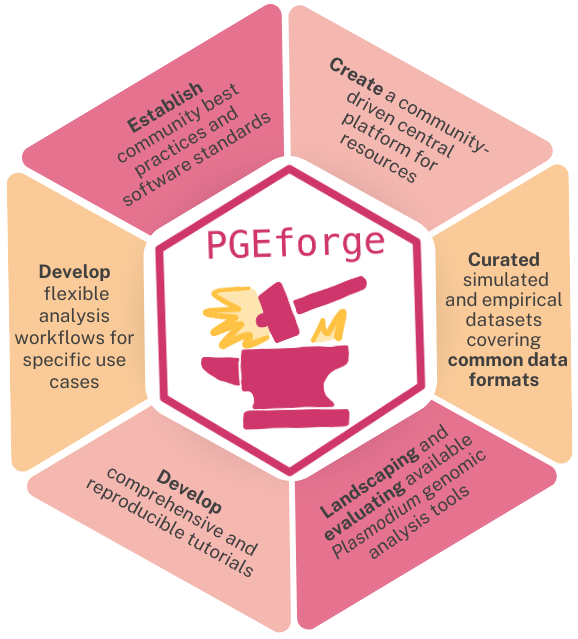
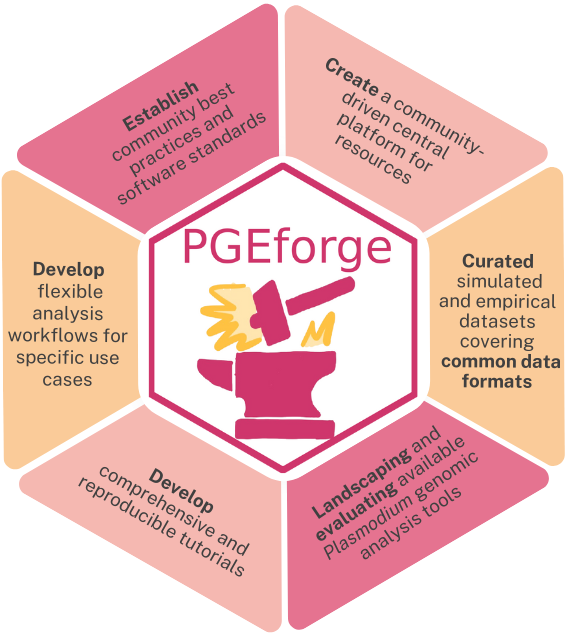
fix hex, fix/add refs, add use cases/workflows

diff --git a/_freeze/site_libs/dt-ext-scroller-1.13.6/js/dataTables.scroller.min.js b/_freeze/site_libs/dt-ext-scroller-1.13.6/js/dataTables.scroller.min.js
@@ -1,0 +1,4 @@
+/*! Scroller 2.2.0
+ * © SpryMedia Ltd - datatables.net/license
+ */
+!function(o){var e,l;"function"==typeof define&&define.amd?define(["jquery","datatables.net"],function(s){return o(s,window,document)}):"object"==typeof exports?(e=require("jquery"),l=function(s,t){t.fn.dataTable||require("datatables.net")(s,t)},"undefined"==typeof window?module.exports=function(s,t){return s=s||window,t=t||e(s),l(s,t),o(t,s,s.document)}:(l(window,e),module.exports=o(e,window,window.document))):o(jQuery,window,document)}(function(f,i,o,a){"use strict";function l(s,t){this instanceof l?(t===a&&(t={}),s=f.fn.dataTable.Api(s),this.s={dt:s.settings()[0],dtApi:s,tableTop:0,tableBottom:0,redrawTop:0,redrawBottom:0,autoHeight:!0,viewportRows:0,stateTO:null,stateSaveThrottle:function(){},drawTO:null,heights:{jump:null,page:null,virtual:null,scroll:null,row:null,viewport:null,labelHeight:0,xbar:0},topRowFloat:0,scrollDrawDiff:null,loaderVisible:!1,forceReposition:!1,baseRowTop:0,baseScrollTop:0,mousedown:!1,lastScrollTop:0},this.s=f.extend(this.s,l.oDefaults,t),this.s.heights.row=this.s.rowHeight,this.dom={force:o.createElement("div"),label:f('<div class="dts_label">0</div>'),scroller:null,table:null,loader:null},this.s.dt.oScroller||(this.s.dt.oScroller=this).construct()):alert("Scroller warning: Scroller must be initialised with the 'new' keyword.")}var r=f.fn.dataTable,s=(f.extend(l.prototype,{measure:function(s){this.s.autoHeight&&this._calcRowHeight();var t=this.s.heights,o=(t.row&&(t.viewport=this._parseHeight(f(this.dom.scroller).css("max-height")),this.s.viewportRows=parseInt(t.viewport/t.row,10)+1,this.s.dt._iDisplayLength=this.s.viewportRows*this.s.displayBuffer),this.dom.label.outerHeight());t.xbar=this.dom.scroller.offsetHeight-this.dom.scroller.clientHeight,t.labelHeight=o,s!==a&&!s||this.s.dt.oInstance.fnDraw(!1)},pageInfo:function(){var s=this.s.dt,t=this.dom.scroller.scrollTop,s=s.fnRecordsDisplay(),o=Math.ceil(this.pixelsToRow(t+this.s.heights.viewport,!1,this.s.ani));return{start:Math.floor(this.pixelsToRow(t,!1,this.s.ani)),end:s<o?s-1:o-1}},pixelsToRow:function(s,t,o){s-=this.s.baseScrollTop,o=o?(this._domain("physicalToVirtual",this.s.baseScrollTop)+s)/this.s.heights.row:s/this.s.heights.row+this.s.baseRowTop;return t||t===a?parseInt(o,10):o},rowToPixels:function(s,t,o){s-=this.s.baseRowTop,o=o?this._domain("virtualToPhysical",this.s.baseScrollTop):this.s.baseScrollTop;return o+=s*this.s.heights.row,t||t===a?parseInt(o,10):o},scrollToRow:function(s,t){var o=this,e=!1,l=this.rowToPixels(s),r=s-(this.s.displayBuffer-1)/2*this.s.viewportRows;r<0&&(r=0),(t=(l>this.s.redrawBottom||l<this.s.redrawTop)&&this.s.dt._iDisplayStart!==r&&(e=!0,l=this._domain("virtualToPhysical",s*this.s.heights.row),this.s.redrawTop<l)&&l<this.s.redrawBottom?!(this.s.forceReposition=!0):t)===a||t?(this.s.ani=e,f(this.dom.scroller).animate({scrollTop:l},function(){setTimeout(function(){o.s.ani=!1},250)})):f(this.dom.scroller).scrollTop(l)},construct:function(){var e,l,r=this,s=this.s.dtApi;this.s.dt.oFeatures.bPaginate?(this.dom.force.style.position="relative",this.dom.force.style.top="0px",this.dom.force.style.left="0px",this.dom.force.style.width="1px",this.dom.scroller=f("div."+this.s.dt.oClasses.sScrollBody,this.s.dt.nTableWrapper)[0],this.dom.scroller.appendChild(this.dom.force),this.dom.scroller.style.position="relative",this.dom.table=f(">table",this.dom.scroller)[0],this.dom.table.style.position="absolute",this.dom.table.style.top="0px",this.dom.table.style.left="0px",f(s.table().container()).addClass("dts DTS"),this.s.loadingIndicator&&(this.dom.loader=f('<div class="dataTables_processing dts_loading">'+this.s.dt.oLanguage.sLoadingRecords+"</div>").css("display","none"),f(this.dom.scroller.parentNode).css("position","relative").append(this.dom.loader)),this.dom.label.appendTo(this.dom.scroller),this.s.heights.row&&"auto"!=this.s.heights.row&&(this.s.autoHeight=!1),this.s.ingnoreScroll=!0,f(this.dom.scroller).on("scroll.dt-scroller",function(s){r._scroll.call(r)}),f(this.dom.scroller).on("touchstart.dt-scroller",function(){r._scroll.call(r)}),f(this.dom.scroller).on("mousedown.dt-scroller",function(){r.s.mousedown=!0}).on("mouseup.dt-scroller",function(){r.s.labelVisible=!1,r.s.mousedown=!1,r.dom.label.css("display","none")}),f(i).on("resize.dt-scroller",function(){r.measure(!1),r._info()}),e=!0,l=s.state.loaded(),s.on("stateSaveParams.scroller",function(s,t,o){e&&l?(o.scroller=l.scroller,e=!1,o.scroller&&(r.s.lastScrollTop=o.scroller.scrollTop)):o.scroller={topRow:r.s.topRowFloat,baseScrollTop:r.s.baseScrollTop,baseRowTop:r.s.baseRowTop,scrollTop:r.s.lastScrollTop}}),s.on("stateLoadParams.scroller",function(s,t,o){o.scroller!==a&&r.scrollToRow(o.scroller.topRow)}),l&&l.scroller&&(this.s.topRowFloat=l.scroller.topRow,this.s.baseScrollTop=l.scroller.baseScrollTop,this.s.baseRowTop=l.scroller.baseRowTop),this.measure(!1),r.s.stateSaveThrottle=r.s.dt.oApi._fnThrottle(function(){r.s.dtApi.state.save()},500),s.on("init.scroller",function(){r.measure(!1),r.s.scrollType="jump",r._draw(),s.on("draw.scroller",function(){r._draw()})}),s.on("preDraw.dt.scroller",function(){r._scrollForce()}),s.on("destroy.scroller",function(){f(i).off("resize.dt-scroller"),f(r.dom.scroller).off(".dt-scroller"),f(r.s.dt.nTable).off(".scroller"),f(r.s.dt.nTableWrapper).removeClass("DTS"),f("div.DTS_Loading",r.dom.scroller.parentNode).remove(),r.dom.table.style.position="",r.dom.table.style.top="",r.dom.table.style.left=""})):this.s.dt.oApi._fnLog(this.s.dt,0,"Pagination must be enabled for Scroller")},_calcRowHeight:function(){var s=this.s.dt,t=s.nTable,o=t.cloneNode(!1),e=f("<tbody/>").appendTo(o),l=f('<div class="'+s.oClasses.sWrapper+' DTS"><div class="'+s.oClasses.sScrollWrapper+'"><div class="'+s.oClasses.sScrollBody+'"></div></div></div>'),r=(f("tbody tr:lt(4)",t).clone().appendTo(e),f("tr",e).length);if(1===r)e.prepend("<tr><td>&#160;</td></tr>"),e.append("<tr><td>&#160;</td></tr>");else for(;r<3;r++)e.append("<tr><td>&#160;</td></tr>");f("div."+s.oClasses.sScrollBody,l).append(o);s=this.s.dt.nHolding||t.parentNode;f(s).is(":visible")||(s="body"),l.find("input").removeAttr("name"),l.appendTo(s),this.s.heights.row=f("tr",e).eq(1).outerHeight(),l.remove()},_draw:function(){var s=this,t=this.s.heights,o=this.dom.scroller.scrollTop,e=f(this.s.dt.nTable).height(),l=this.s.dt._iDisplayStart,r=this.s.dt._iDisplayLength,i=this.s.dt.fnRecordsDisplay(),a=o+t.viewport,n=(this.s.skip=!0,!this.s.dt.bSorted&&!this.s.dt.bFiltered||0!==l||this.s.dt._drawHold||(this.s.topRowFloat=0),o="jump"===this.s.scrollType?this._domain("virtualToPhysical",this.s.topRowFloat*t.row):o,this.s.baseScrollTop=o,this.s.baseRowTop=this.s.topRowFloat,o-(this.s.topRowFloat-l)*t.row),l=(0===l?n=0:i<=l+r?n=t.scroll-e:n+e<a&&(this.s.baseScrollTop+=1+((i=a-e)-n),n=i),this.dom.table.style.top=n+"px",this.s.tableTop=n,this.s.tableBottom=e+this.s.tableTop,(o-this.s.tableTop)*this.s.boundaryScale);this.s.redrawTop=o-l,this.s.redrawBottom=o+l>t.scroll-t.viewport-t.row?t.scroll-t.viewport-t.row:o+l,this.s.skip=!1,s.s.ingnoreScroll&&(this.s.dt.oFeatures.bStateSave&&null!==this.s.dt.oLoadedState&&void 0!==this.s.dt.oLoadedState.scroller?((r=!(!this.s.dt.sAjaxSource&&!s.s.dt.ajax||this.s.dt.oFeatures.bServerSide))&&2<=this.s.dt.iDraw||!r&&1<=this.s.dt.iDraw)&&setTimeout(function(){f(s.dom.scroller).scrollTop(s.s.dt.oLoadedState.scroller.scrollTop),setTimeout(function(){s.s.ingnoreScroll=!1},0)},0):s.s.ingnoreScroll=!1),this.s.dt.oFeatures.bInfo&&setTimeout(function(){s._info.call(s)},0),f(this.s.dt.nTable).triggerHandler("position.dts.dt",n),this.dom.loader&&this.s.loaderVisible&&(this.dom.loader.css("display","none"),this.s.loaderVisible=!1)},_domain:function(s,t){var o,e=this.s.heights,l=1e4;return e.virtual===e.scroll||t<l?t:"virtualToPhysical"===s&&t>=e.virtual-l?(o=e.virtual-t,e.scroll-o):"physicalToVirtual"===s&&t>=e.scroll-l?(o=e.scroll-t,e.virtual-o):(e=l-(o=(e.virtual-l-l)/(e.scroll-l-l))*l,"virtualToPhysical"===s?(t-e)/o:o*t+e)},_info:function(){if(this.s.dt.oFeatures.bInfo){var s=this.s.dt,t=s.oLanguage,o=this.dom.scroller.scrollTop,e=Math.floor(this.pixelsToRow(o,!1,this.s.ani)+1),l=s.fnRecordsTotal(),r=s.fnRecordsDisplay(),o=Math.ceil(this.pixelsToRow(o+this.s.heights.viewport,!1,this.s.ani)),o=r<o?r:o,i=s.fnFormatNumber(e),a=s.fnFormatNumber(o),n=s.fnFormatNumber(l),h=s.fnFormatNumber(r),c=0===s.fnRecordsDisplay()&&s.fnRecordsDisplay()==s.fnRecordsTotal()?t.sInfoEmpty+t.sInfoPostFix:0===s.fnRecordsDisplay()?t.sInfoEmpty+" "+t.sInfoFiltered.replace("_MAX_",n)+t.sInfoPostFix:s.fnRecordsDisplay()==s.fnRecordsTotal()?t.sInfo.replace("_START_",i).replace("_END_",a).replace("_MAX_",n).replace("_TOTAL_",h)+t.sInfoPostFix:t.sInfo.replace("_START_",i).replace("_END_",a).replace("_MAX_",n).replace("_TOTAL_",h)+" "+t.sInfoFiltered.replace("_MAX_",s.fnFormatNumber(s.fnRecordsTotal()))+t.sInfoPostFix,i=t.fnInfoCallback,d=(i&&(c=i.call(s.oInstance,s,e,o,l,r,c)),s.aanFeatures.i);if(void 0!==d)for(var p=0,u=d.length;p<u;p++)f(d[p]).html(c);f(s.nTable).triggerHandler("info.dt")}},_parseHeight:function(s){var t,o,s=/^([+-]?(?:\d+(?:\.\d+)?|\.\d+))(px|em|rem|vh)$/.exec(s);return null!==s&&(o=parseFloat(s[1]),"px"===(s=s[2])?t=o:"vh"===s?t=o/100*f(i).height():"rem"===s?t=o*parseFloat(f(":root").css("font-size")):"em"===s&&(t=o*parseFloat(f("body").css("font-size"))),t)||0},_scroll:function(){var s,t=this,o=this.s.heights,e=this.dom.scroller.scrollTop;this.s.skip||this.s.ingnoreScroll||e!==this.s.lastScrollTop&&(this.s.dt.bFiltered||this.s.dt.bSorted?this.s.lastScrollTop=0:(this._info(),clearTimeout(this.s.stateTO),this.s.stateTO=setTimeout(function(){t.s.dtApi.state.save()},250),this.s.scrollType=Math.abs(e-this.s.lastScrollTop)>o.viewport?"jump":"cont",this.s.topRowFloat="cont"===this.s.scrollType?this.pixelsToRow(e,!1,!1):this._domain("physicalToVirtual",e)/o.row,this.s.topRowFloat<0&&(this.s.topRowFloat=0),this.s.forceReposition||e<this.s.redrawTop||e>this.s.redrawBottom?(s=Math.ceil((this.s.displayBuffer-1)/2*this.s.viewportRows),s=parseInt(this.s.topRowFloat,10)-s,this.s.forceReposition=!1,s<=0?s=0:s+this.s.dt._iDisplayLength>this.s.dt.fnRecordsDisplay()?(s=this.s.dt.fnRecordsDisplay()-this.s.dt._iDisplayLength)<0&&(s=0):s%2!=0&&s++,(this.s.targetTop=s)!=this.s.dt._iDisplayStart&&(this.s.tableTop=f(this.s.dt.nTable).offset().top,this.s.tableBottom=f(this.s.dt.nTable).height()+this.s.tableTop,s=function(){t.s.dt._iDisplayStart=t.s.targetTop,t.s.dt.oApi._fnDraw(t.s.dt)},this.s.dt.oFeatures.bServerSide?(this.s.forceReposition=!0,clearTimeout(this.s.drawTO),this.s.drawTO=setTimeout(s,this.s.serverWait)):s(),this.dom.loader)&&!this.s.loaderVisible&&(this.dom.loader.css("display","block"),this.s.loaderVisible=!0)):this.s.topRowFloat=this.pixelsToRow(e,!1,!0),this.s.lastScrollTop=e,this.s.stateSaveThrottle(),"jump"===this.s.scrollType&&this.s.mousedown&&(this.s.labelVisible=!0),this.s.labelVisible&&(s=(o.viewport-o.labelHeight-o.xbar)/o.scroll,this.dom.label.html(this.s.dt.fnFormatNumber(parseInt(this.s.topRowFloat,10)+1)).css("top",e+e*s).css("display","block"))))},_scrollForce:function(){var s=this.s.heights;s.virtual=s.row*this.s.dt.fnRecordsDisplay(),s.scroll=s.virtual,1e6<s.scroll&&(s.scroll=1e6),this.dom.force.style.height=s.scroll>this.s.heights.row?s.scroll+"px":this.s.heights.row+"px"}}),l.oDefaults=l.defaults={boundaryScale:.5,displayBuffer:9,loadingIndicator:!1,rowHeight:"auto",serverWait:200},l.version="2.2.0",f(o).on("preInit.dt.dtscroller",function(s,t){var o,e;"dt"===s.namespace&&(s=t.oInit.scroller,o=r.defaults.scroller,s||o)&&(e=f.extend({},s,o),!1!==s)&&new l(t,e)}),f.fn.dataTable.Scroller=l,f.fn.DataTable.Scroller=l,f.fn.dataTable.Api);return s.register("scroller()",function(){return this}),s.register("scroller().rowToPixels()",function(s,t,o){var e=this.context;if(e.length&&e[0].oScroller)return e[0].oScroller.rowToPixels(s,t,o)}),s.register("scroller().pixelsToRow()",function(s,t,o){var e=this.context;if(e.length&&e[0].oScroller)return e[0].oScroller.pixelsToRow(s,t,o)}),s.register(["scroller().scrollToRow()","scroller.toPosition()"],function(t,o){return this.iterator("table",function(s){s.oScroller&&s.oScroller.scrollToRow(t,o)}),this}),s.register("row().scrollTo()",function(o){var e=this;return this.iterator("row",function(s,t){s.oScroller&&(t=e.rows({order:"applied",search:"applied"}).indexes().indexOf(t),s.oScroller.scrollToRow(t,o))}),this}),s.register("scroller.measure()",function(t){return this.iterator("table",function(s){s.oScroller&&s.oScroller.measure(t)}),this}),s.register("scroller.page()",function(){var s=this.context;if(s.length&&s[0].oScroller)return s[0].oScroller.pageInfo()}),r});

diff --git a/_freeze/site_libs/dt-ext-scroller-1.13.6/css/scroller.dataTables.min.css b/_freeze/site_libs/dt-ext-scroller-1.13.6/css/scroller.dataTables.min.css
@@ -1,0 +1,1 @@
+div.dts{display:block !important}div.dts tbody th,div.dts tbody td{white-space:nowrap}div.dts div.dts_loading{z-index:1}div.dts div.dts_label{position:absolute;right:20px;background:rgba(0, 0, 0, 0.8);color:white;box-shadow:3px 3px 10px rgba(0, 0, 0, 0.5);text-align:right;border-radius:3px;padding:.4em;z-index:2;display:none}div.dts div.dataTables_scrollBody{background:repeating-linear-gradient(45deg, rgba(0, 0, 0, 0.025), rgba(0, 0, 0, 0.025) 10px, rgba(0, 0, 0, 0) 10px, rgba(0, 0, 0, 0) 20px)}div.dts div.dataTables_scrollBody table{background-color:white;z-index:2}div.dts div.dataTables_paginate,div.dts div.dataTables_length{display:none}html.dark div.dts div.dts_label{background:rgba(255, 255, 255, 0.8);color:black}html.dark div.dts div.dataTables_scrollBody{background:repeating-linear-gradient(45deg, rgba(255, 255, 255, 0.025), rgba(255, 255, 255, 0.025) 10px, rgba(255, 255, 255, 0) 10px, rgba(255, 255, 255, 0) 20px)}html.dark div.dts div.dataTables_scrollBody table{background-color:var(--dt-html-background);z-index:2}
